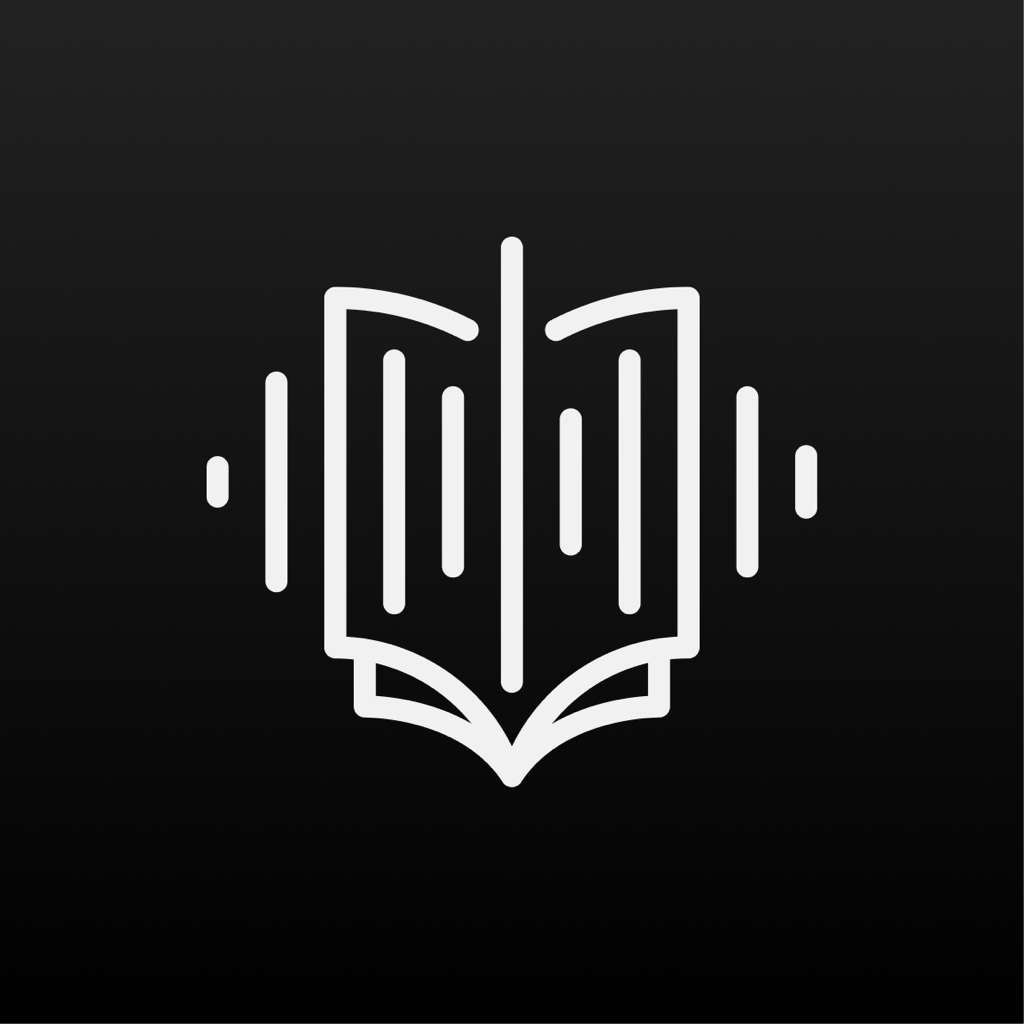
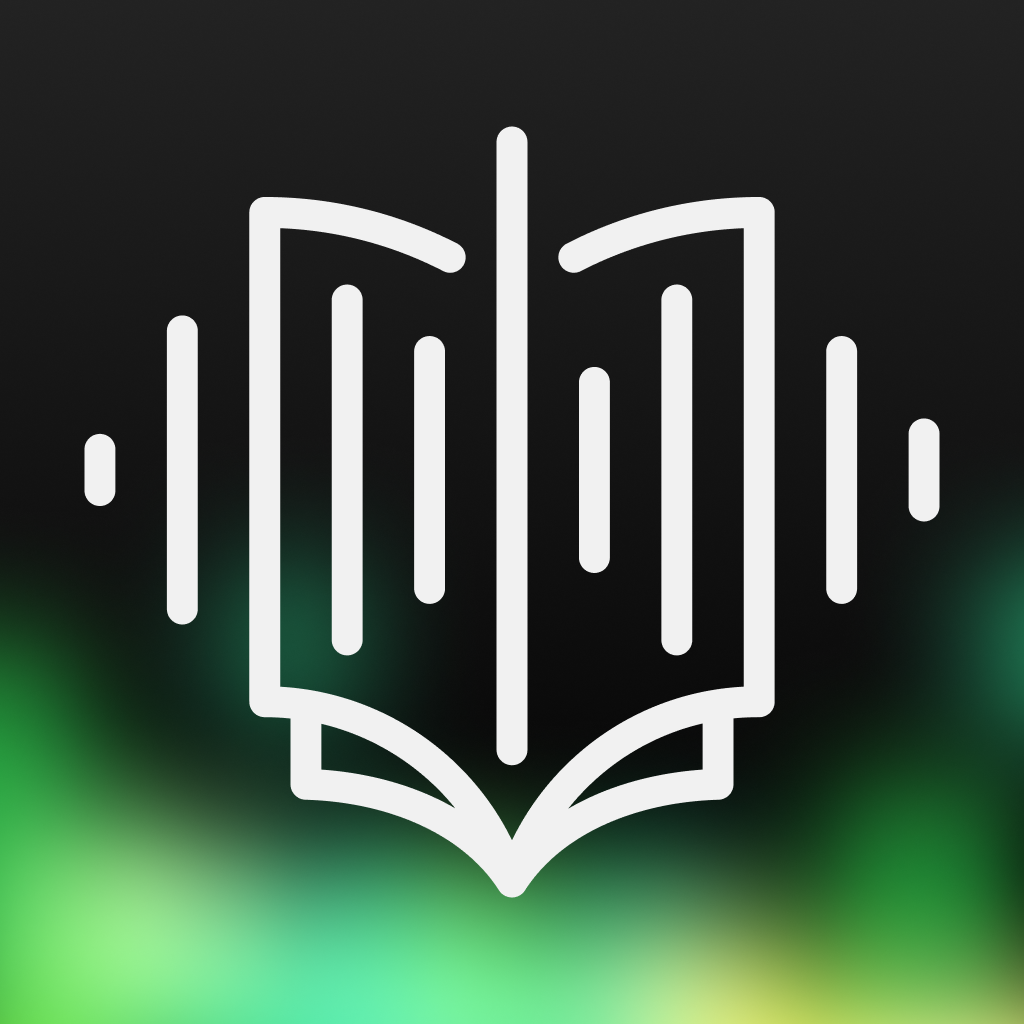
Animate splash aurora glow and update branding assets.
Add full-width fire-like bottom aurora, staggered logo intro, and refreshed AppIcon.

diff --git a/Sources/SoundbookCore/UI/Views/SplashView.swift b/Sources/SoundbookCore/UI/Views/SplashView.swift
@@ -1,23 +1,42 @@
+import Combine
 import SwiftUI
 
 struct SplashView: View {
     let logoReveal: CGFloat
     let dismissProgress: CGFloat
 
-    private let markSize: CGFloat = 111.333
+    @State private var auroraPhase: CGFloat = 0
+    @State private var breathePhase: CGFloat = 0
+
+    private let markSize: CGFloat = 120
+    private let auroraTimer = Timer.publish(every: 1.0 / 30.0, on: .main, in: .common).autoconnect()
 
     var body: some View {
         ZStack {
             splashBackground
 
+            SplashAuroraBackground(
+                reveal: logoReveal * (1 - dismissProgress * 0.35),
+                phase: auroraPhase
+            )
+
             SoundbookLogoMark(
                 reveal: logoReveal,
-                dismissProgress: dismissProgress
+                dismissProgress: dismissProgress,
+                breathePhase: breathePhase
             )
             .frame(width: markSize, height: markSize)
         }
         .accessibilityElement(children: .combine)
         .accessibilityLabel(Text("Soundbook"))
+        .onAppear {
+            withAnimation(.easeInOut(duration: 2.4).repeatForever(autoreverses: true)) {
+                breathePhase = 1
+            }
+        }
+        .onReceive(auroraTimer) { _ in
+            auroraPhase += 0.035
+        }
     }
 
     private var splashBackground: some View {
@@ -34,13 +53,106 @@ struct SplashView: View {
     }
 }
 
+private struct SplashAuroraBackground: View {
+    let reveal: CGFloat
+    let phase: CGFloat
+
+    private let blobs: [AuroraBlob] = [
+        AuroraBlob(x: 0.18, anchorY: 0.02, widthRatio: 0.95, heightRatio: 0.42, color: AppColors.auroraGreen, seed: 0.0, riseSpeed: 1.0),
+        AuroraBlob(x: 0.42, anchorY: 0.00, widthRatio: 1.15, heightRatio: 0.48, color: AppColors.auroraTeal, seed: 1.4, riseSpeed: 1.15),
+        AuroraBlob(x: 0.68, anchorY: 0.04, widthRatio: 1.05, heightRatio: 0.44, color: AppColors.auroraGreen, seed: 2.8, riseSpeed: 0.95),
+        AuroraBlob(x: 0.88, anchorY: 0.01, widthRatio: 0.88, heightRatio: 0.38, color: AppColors.auroraLime, seed: 0.7, riseSpeed: 1.25),
+        AuroraBlob(x: 0.05, anchorY: 0.06, widthRatio: 0.82, heightRatio: 0.36, color: AppColors.auroraLime, seed: 3.5, riseSpeed: 1.1),
+        AuroraBlob(x: 0.30, anchorY: 0.10, widthRatio: 0.78, heightRatio: 0.34, color: AppColors.auroraYellow, seed: 2.1, riseSpeed: 1.3),
+        AuroraBlob(x: 0.55, anchorY: 0.08, widthRatio: 0.92, heightRatio: 0.40, color: AppColors.auroraYellow, seed: 4.2, riseSpeed: 1.05),
+        AuroraBlob(x: 0.78, anchorY: 0.12, widthRatio: 0.74, heightRatio: 0.32, color: AppColors.auroraTeal, seed: 1.9, riseSpeed: 1.2),
+        AuroraBlob(x: 0.12, anchorY: 0.14, widthRatio: 0.70, heightRatio: 0.30, color: AppColors.auroraTeal, seed: 5.0, riseSpeed: 0.9),
+        AuroraBlob(x: 0.50, anchorY: 0.16, widthRatio: 0.86, heightRatio: 0.28, color: AppColors.auroraLime, seed: 3.1, riseSpeed: 1.35),
+        AuroraBlob(x: 0.92, anchorY: 0.10, widthRatio: 0.68, heightRatio: 0.30, color: AppColors.auroraGreen, seed: 0.3, riseSpeed: 1.0),
+        AuroraBlob(x: 0.36, anchorY: 0.18, widthRatio: 0.64, heightRatio: 0.26, color: AppColors.auroraYellow, seed: 4.8, riseSpeed: 1.15),
+    ]
+
+    var body: some View {
+        GeometryReader { geometry in
+            let size = geometry.size
+            let bottomWashHeight = size.height * 0.52
+
+            ZStack {
+                LinearGradient(
+                    colors: [
+                        Color.clear,
+                        AppColors.auroraGreen.opacity(0.08),
+                        AppColors.auroraLime.opacity(0.16),
+                        AppColors.auroraYellow.opacity(0.10),
+                    ],
+                    startPoint: .top,
+                    endPoint: .bottom
+                )
+                .frame(height: bottomWashHeight)
+                .frame(maxHeight: .infinity, alignment: .bottom)
+                .opacity(Double(reveal * 0.9))
+
+                ForEach(blobs) { blob in
+                    flameBlob(blob, in: size)
+                }
+            }
+        }
+        .ignoresSafeArea()
+        .allowsHitTesting(false)
+        .accessibilityHidden(true)
+    }
+
+    @ViewBuilder
+    private func flameBlob(_ blob: AuroraBlob, in size: CGSize) -> some View {
+        let t = phase * blob.riseSpeed + blob.seed
+        let flicker = sin(t * 2.4) * 0.5 + 0.5
+        let rise = (sin(t * 1.35 - .pi / 2) * 0.5 + 0.5)
+        let riseLift = rise * size.height * 0.14
+        let wobbleX = sin(t * 1.8) * size.width * 0.04
+            + sin(t * 3.1 + blob.seed) * size.width * 0.025
+        let stretchY = 0.88 + flicker * 0.28 + rise * 0.18
+        let stretchX = 0.94 + sin(t * 2.0 + blob.seed) * 0.12
+        let opacity = (0.42 + flicker * 0.28 + rise * 0.18) * Double(reveal)
+
+        Ellipse()
+            .fill(blob.color)
+            .frame(
+                width: size.width * blob.widthRatio * stretchX,
+                height: size.height * blob.heightRatio * stretchY
+            )
+            .blur(radius: size.width * 0.09)
+            .blendMode(.screen)
+            .opacity(opacity)
+            .position(
+                x: size.width * blob.x + wobbleX,
+                y: size.height + size.height * blob.anchorY - riseLift
+            )
+    }
+}
+
+private struct AuroraBlob: Identifiable {
+    let id = UUID()
+    let x: CGFloat
+    let anchorY: CGFloat
+    let widthRatio: CGFloat
+    let heightRatio: CGFloat
+    let color: Color
+    let seed: CGFloat
+    let riseSpeed: CGFloat
+}
+
 struct SoundbookLogoMark: View {
     let reveal: CGFloat
     let dismissProgress: CGFloat
+    let breathePhase: CGFloat
 
     var body: some View {
-        let entrance = min(1, max(0, reveal))
-        let scale = (0.9 + entrance * 0.1) * (1 + dismissProgress * 0.12)
+        let entrance = eased(reveal, delay: 0.04)
+        let ringEntrance = eased(reveal, delay: 0)
+        let glyphEntrance = eased(reveal, delay: 0.12)
+        let breathe = 1 + breathePhase * 0.018
+        let exitScale = 1 + dismissProgress * 0.14
+        let scale = (0.78 + ringEntrance * 0.22) * breathe * exitScale
 
         ZStack {
             Circle()
@@ -56,16 +168,24 @@ struct SoundbookLogoMark: View {
                 )
                 .overlay(
                     Circle()
-                        .stroke(AppColors.offWhite.opacity(0.1), lineWidth: 1)
+                        .stroke(AppColors.offWhite.opacity(0.1 * Double(ringEntrance)), lineWidth: 1)
                 )
+                .scaleEffect(0.92 + ringEntrance * 0.08)
 
             Image("Logo")
                 .resizable()
                 .scaledToFit()
                 .padding(24)
+                .scaleEffect(0.88 + glyphEntrance * 0.12)
+                .opacity(Double(glyphEntrance))
         }
         .scaleEffect(scale)
         .opacity(Double(entrance * (1 - dismissProgress)))
+    }
+
+    private func eased(_ progress: CGFloat, delay: CGFloat) -> CGFloat {
+        let shifted = (progress - delay) / max(0.001, 1 - delay)
+        return min(1, max(0, shifted))
     }
 }
 

diff --git a/Sources/SoundbookCore/UI/Views/AppRootView.swift b/Sources/SoundbookCore/UI/Views/AppRootView.swift
@@ -41,18 +41,22 @@ public struct AppRootView: View {
     }
 
     private func runLaunchSequence() {
+        logoReveal = 0
+        dismissProgress = 0
+        galleryReveal = 0
+
         withAnimation(AppAnimations.splashIntro) {
             logoReveal = 1
         }
 
-        DispatchQueue.main.asyncAfter(deadline: .now() + 2.2) {
+        DispatchQueue.main.asyncAfter(deadline: .now() + 2.6) {
             withAnimation(AppAnimations.splashExit) {
                 dismissProgress = 1
                 galleryReveal = 1
             }
         }
 
-        DispatchQueue.main.asyncAfter(deadline: .now() + 3.2) {
+        DispatchQueue.main.asyncAfter(deadline: .now() + 3.5) {
             viewModel.beginGallerySession()
             showSplash = false
         }

diff --git a/Sources/SoundbookCore/UI/Theme/Theme.swift b/Sources/SoundbookCore/UI/Theme/Theme.swift
@@ -5,6 +5,10 @@ enum AppColors {
     static let splashTop = Color(red: 30 / 255, green: 30 / 255, blue: 30 / 255)
     static let holdOverlayTop = Color(red: 17 / 255, green: 17 / 255, blue: 17 / 255)
     static let noiseOverlayOpacity = 0.075
+    static let auroraGreen = Color(red: 46 / 255, green: 217 / 255, blue: 82 / 255).opacity(0.8)
+    static let auroraTeal = Color(red: 46 / 255, green: 217 / 255, blue: 146 / 255).opacity(0.8)
+    static let auroraLime = Color(red: 119 / 255, green: 245 / 255, blue: 56 / 255)
+    static let auroraYellow = Color(red: 248 / 255, green: 255 / 255, blue: 44 / 255)
 }
 
 enum AppAnimations {
